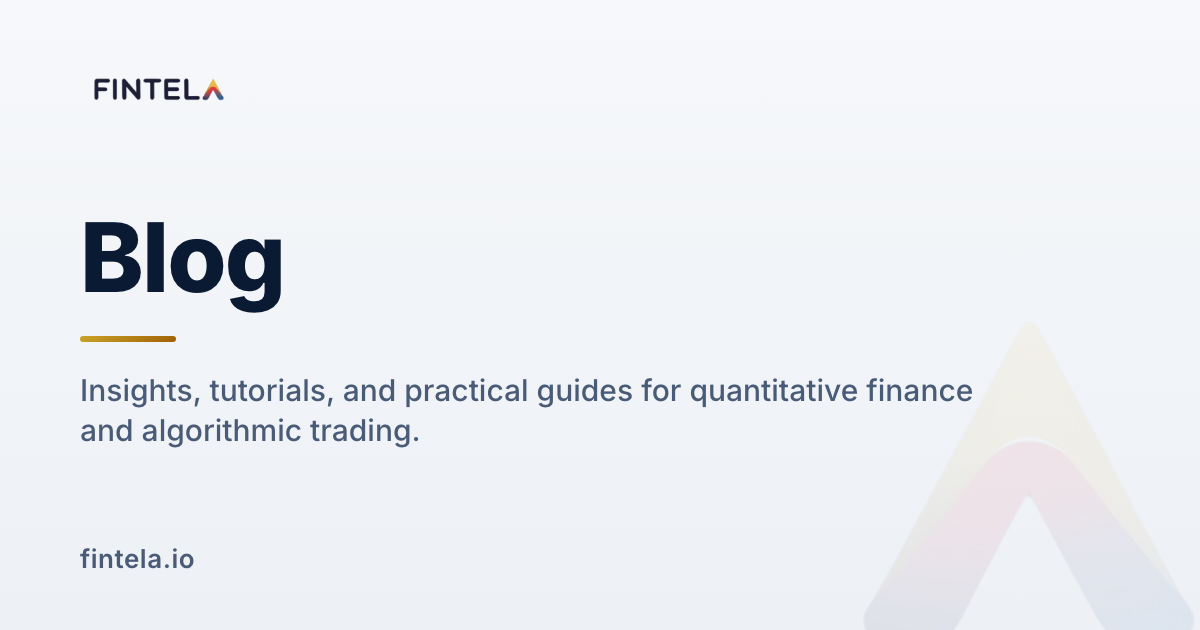
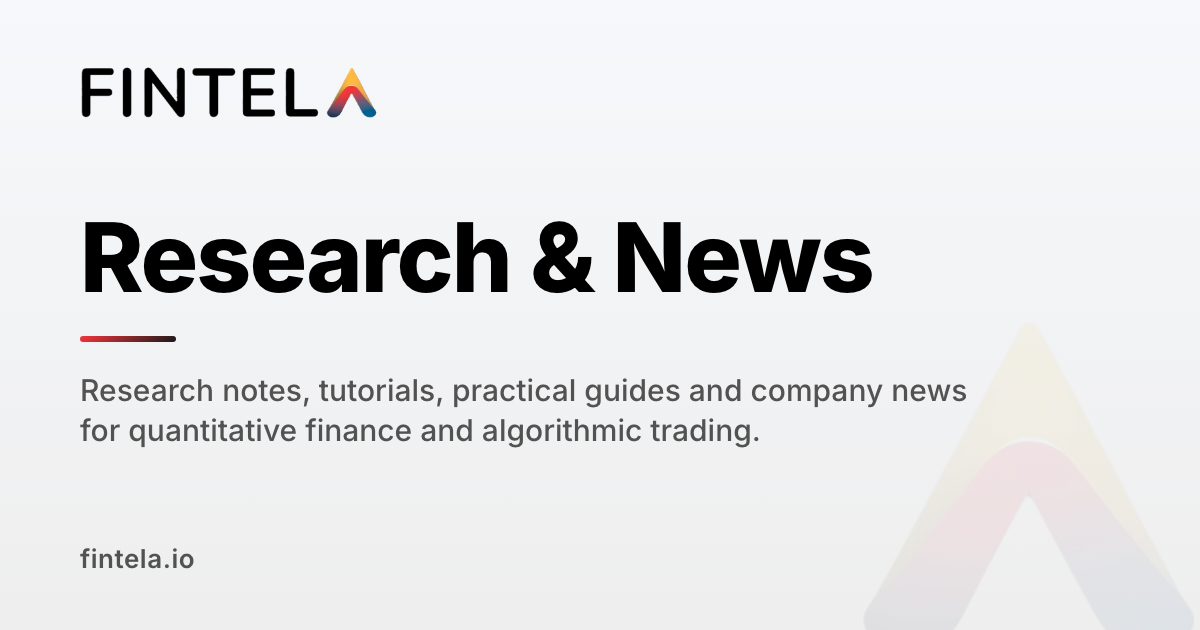
feat(blog): rename the Research section to Research & News
Rename the nav, footer, home band, blog hero, page titles and OG card in
en/es/pt; keep the md-width header on one line for the longer labels.

diff --git a/src/components/Header/Header.tsx b/src/components/Header/Header.tsx
@@ -110,10 +110,13 @@ const prefetch = (id: string) => {
 const bandId = (item: NavItem) => item.href.replace(/^\/#/, '');
 
 const navPillButtonSx = {
-  px: 1.75,
+  // Tighter between md and lg: the longest translated labels ("Investigación
+  // y Noticias") would otherwise wrap and push the logo out of its column.
+  px: { md: 0.75, lg: 1.75 },
   py: 0.75,
   minHeight: 36,
-  fontSize: '0.92rem',
+  fontSize: { md: '0.86rem', lg: '0.92rem' },
+  whiteSpace: 'nowrap',
   borderRadius: `${radii.pill}px`,
   textTransform: 'none',
 } as const;
@@ -322,10 +325,10 @@ export const Header = ({ activeSection, onNavigate }: HeaderProps) => {
             // never do here.
             display: { xs: 'flex', md: 'grid' },
             justifyContent: { xs: 'space-between' },
-            gridTemplateColumns: { md: '1fr auto 1fr' },
+            gridTemplateColumns: { md: 'minmax(max-content, 1fr) auto minmax(max-content, 1fr)' },
             alignItems: 'center',
             py: { xs: 1, md: 1.25 },
-            px: { xs: 2, md: 4 },
+            px: { xs: 2, md: 2, lg: 4 },
             minHeight: { xs: 60, md: 72 },
             maxWidth: 1280,
             mx: 'auto',
@@ -368,7 +371,7 @@ export const Header = ({ activeSection, onNavigate }: HeaderProps) => {
             aria-label={t('aria.primaryNav')}
             sx={{
               display: { xs: 'none', md: 'flex' },
-              gap: 0.5,
+              gap: { md: 0.25, lg: 0.5 },
               alignItems: 'center',
               justifySelf: 'center',
             }}

diff --git a/src/pages/BlogPostPage.tsx b/src/pages/BlogPostPage.tsx
@@ -24,7 +24,7 @@ import { blogCrumb, blogPosting, breadcrumbList, homeCrumb, organization, webSit
 import { absoluteUrl } from '../seo/site';
 
 const BLOG_OG_IMAGE = '/og/blog.png';
-const TITLE_SUFFIX = 'Research Blog';
+const TITLE_SUFFIX = 'Research & News';
 
 /** How many related posts sit under an article. */
 const MAX_RELATED = 3;

diff --git a/src/seo/text.ts b/src/seo/text.ts
@@ -4,7 +4,7 @@
  * (which is what keeps it hot-reloadable).
  */
 
-/** `{Page} | Fintela` — or `{Page} | Fintela Docs`, `{Page} | Research Blog`. */
+/** `{Page} | Fintela` — or `{Page} | Fintela Docs`, `{Page} | Research & News`. */
 export const pageTitle = (name: string, suffix = 'Fintela'): string => `${name} | ${suffix}`;
 
 /**
